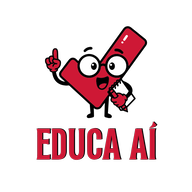
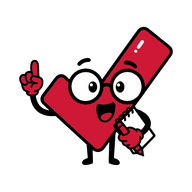
Atualiza ícones, sugere senha e revisa segurança

diff --git a/app.js b/app.js
@@ -17,12 +17,12 @@ function updateStorageStatus(){let message='';if(storageMode==='localStorage')me
 function mergeStates(indexed,fallback){const merge=(a,b)=>{const byId=new Map((Array.isArray(a)?a:[]).filter(x=>x&&x.id).map(x=>[x.id,x]));(Array.isArray(b)?b:[]).filter(x=>x&&x.id).forEach(x=>byId.set(x.id,x));return [...byId.values()]};const base=fallback||indexed||{};return {...emptyState(),disciplines:merge(indexed?.disciplines,fallback?.disciplines),classes:merge(indexed?.classes,fallback?.classes),students:merge(indexed?.students,fallback?.students),visits:merge(indexed?.visits,fallback?.visits),attendance:merge(indexed?.attendance,fallback?.attendance),exits:merge(indexed?.exits,fallback?.exits),occurrences:merge(indexed?.occurrences,fallback?.occurrences),activeDisciplineId:fallback?.activeDisciplineId||indexed?.activeDisciplineId||'',profileName:base.profileName||'',appMode:'individual',onboardingComplete:!!base.onboardingComplete,onboardingStep:base.onboardingStep||'',accessCount:Number(base.accessCount)||0,activeProduct:base.activeProduct||'vista'}}
 function showRecoveryKey(code,continuation){pendingRecoveryKey=code;pendingRecoveryContinuation=continuation;$('recoveryKeyText').textContent=code;$('recoverySavedCheck').checked=false;$('confirmRecoveryKey').disabled=true;$('recoveryError').textContent='';$('privacyGate').classList.add('hidden');$('onboardingGate').classList.add('hidden');$('productChooser').classList.add('hidden');$('supportReminder').classList.add('hidden');document.querySelector('main').inert=true;$('recoveryGate').classList.remove('hidden')}
 function updatePasskeyControls(){const enabled=!!vaultSession?.wraps?.passkey;if($('enablePasskey'))$('enablePasskey').classList.toggle('hidden',enabled);if($('removePasskey'))$('removePasskey').classList.toggle('hidden',!enabled);if($('passkeyStatus'))$('passkeyStatus').textContent=enabled?'Passkey ativa neste perfil. A senha e a chave de recuperação continuam disponíveis.':'Opcional; depende do suporte a passkeys e PRF neste navegador e aparelho.'}
-async function finishUnlockedSession(){await save();if(storageMode==='indexedDB'){try{localStorage.removeItem(LOCAL_STATE_KEY);localStorage.removeItem(RESET_MARKER_KEY)}catch{}}$('privacyGate').classList.add('hidden');$('recoveryGate').classList.add('hidden');$('privacyPassword').value='';$('privacyPasswordConfirm').value='';$('profileNameInput').value='';$('privacySubmit').disabled=false;render();updateStorageStatus();updatePasskeyControls();if('serviceWorker'in navigator)navigator.serviceWorker.register('./sw.js').catch(()=>{});await routeAfterUnlock()}
+async function finishUnlockedSession(){await save();if(storageMode==='indexedDB'){try{localStorage.removeItem(LOCAL_STATE_KEY);localStorage.removeItem(RESET_MARKER_KEY)}catch{}}$('privacyGate').classList.add('hidden');$('recoveryGate').classList.add('hidden');$('privacyPassword').value='';$('privacyPasswordConfirm').value='';$('profileNameInput').value='';window.EducaPasswordTools?.configure(false);$('privacySubmit').disabled=false;render();updateStorageStatus();updatePasskeyControls();if('serviceWorker'in navigator)navigator.serviceWorker.register('./sw.js').catch(()=>{});await routeAfterUnlock()}
 async function continueRecoverySetup(){if(!$('recoverySavedCheck').checked){$('recoveryError').textContent='Marque a confirmação depois de guardar a chave.';return}const continuation=pendingRecoveryContinuation;pendingRecoveryContinuation=null;pendingRecoveryKey='';$('recoveryGate').classList.add('hidden');if(continuation)await continuation()}
 async function unlockWithPasskey(){try{const stored=await inspectStoredData();if(stored.kind!=='encrypted')throw new Error('Não há perfil com passkey neste aparelho.');lastStoredEnvelope=stored.envelope;const opened=await EducaSecurity.openWithPasskey(stored.envelope);state=normalizeState(opened.data);vaultSession=opened.session;vaultKey=vaultSession.key;storageMode=storageMode==='localStorage'?'localStorage':'indexedDB';await finishUnlockedSession()}catch(err){$('privacyError').textContent=err.message||'Não foi possível desbloquear com a passkey. Use a senha ou a chave de recuperação.'}}
 async function enablePasskey(){try{if(!vaultSession)throw new Error('Desbloqueie o perfil primeiro.');await EducaSecurity.addPasskey(vaultSession,state.profileName);await save();updatePasskeyControls();toast('Passkey ativada neste aparelho.')}catch(err){toast(err.message||'Não foi possível ativar a passkey. Você pode continuar com a senha.')}}
 async function removePasskey(){if(!vaultSession?.wraps?.passkey)return;if(!confirm('Remover a passkey deste perfil? A senha e a chave de recuperação continuarão funcionando.'))return;delete vaultSession.wraps.passkey;await save();updatePasskeyControls();toast('Passkey removida.')}
-function configureGate(mode){gateMode=mode;document.body.dataset.setupFlow='true';document.querySelector('main').inert=true;const setup=mode==='setup',recovery=mode==='recovery',reset=mode==='reset-password',newPassword=setup||reset;$('privacyTitle').textContent=setup?'Crie seu perfil local':recovery?'Recupere o acesso ao seu perfil':reset?'Crie uma nova senha':'Desbloqueie o Educa Aí';$('privacyDescription').textContent=setup?'Crie uma senha para proteger os dados neste aparelho. Este perfil não é uma conta on-line.':recovery?'Digite a chave de recuperação que você guardou ao criar o perfil.':reset?'Defina uma senha nova para este aparelho.':'Digite sua senha para abrir os dados criptografados neste navegador.';$('profileNameWrap').classList.toggle('hidden',!setup);$('profileNameInput').required=setup;$('confirmPasswordWrap').classList.toggle('hidden',!newPassword);$('privacyPasswordLabel').textContent=recovery?'Chave de recuperação':'Senha';$('privacyPassword').autocomplete=recovery?'off':newPassword?'new-password':'current-password';$('privacyPassword').minLength=recovery?1:newPassword?MIN_PASSWORD_LENGTH:1;$('privacyPassword').placeholder=recovery?'Cole ou digite a chave de recuperação':newPassword?'Use pelo menos 14 caracteres':'Senha do perfil local';$('privacySubmit').textContent=setup?'Criar perfil e proteger':recovery?'Continuar com a chave':reset?'Salvar nova senha':'Desbloquear';$('recoveryLoginBtn').classList.toggle('hidden',mode!=='unlock'||!lastStoredEnvelope?.keyWraps?.recovery);$('passkeyLoginBtn').classList.toggle('hidden',mode!=='unlock'||!lastStoredEnvelope?.keyWraps?.passkey);$('privacyBackBtn').classList.toggle('hidden',!recovery&&!reset);$('privacyHint').textContent=setup?'O nome, a senha e os dados ficam neste aparelho. A chave de recuperação será mostrada antes de salvar o perfil.':recovery?'A chave não é enviada para a internet. Se você não a guardou, volte e tente a senha.':reset?'A chave de recuperação continua válida; guarde-a junto da senha nova.':'Os dados ficam neste aparelho. Se esquecer a senha, use a chave de recuperação para criar outra.';$('privacyError').textContent='';$('privacySubmit').disabled=setup&&storageMode==='unavailable';$('privacyGate').classList.remove('hidden');$('recoveryGate').classList.add('hidden');setTimeout(()=>(setup?$('profileNameInput'):$('privacyPassword')).focus(),100)}
+function configureGate(mode){gateMode=mode;document.body.dataset.setupFlow='true';document.querySelector('main').inert=true;const setup=mode==='setup',recovery=mode==='recovery',reset=mode==='reset-password',newPassword=setup||reset;$('privacyTitle').textContent=setup?'Crie seu perfil local':recovery?'Recupere o acesso ao seu perfil':reset?'Crie uma nova senha':'Desbloqueie o Educa Aí';$('privacyDescription').textContent=setup?'Crie uma senha para proteger os dados neste aparelho. Este perfil não é uma conta on-line.':recovery?'Digite a chave de recuperação que você guardou ao criar o perfil.':reset?'Defina uma senha nova para este aparelho.':'Digite sua senha para abrir os dados criptografados neste navegador.';$('profileNameWrap').classList.toggle('hidden',!setup);$('profileNameInput').required=setup;$('confirmPasswordWrap').classList.toggle('hidden',!newPassword);window.EducaPasswordTools?.configure(newPassword);$('privacyPasswordLabel').textContent=recovery?'Chave de recuperação':'Senha';$('privacyPassword').autocomplete=recovery?'off':newPassword?'new-password':'current-password';$('privacyPassword').minLength=recovery?1:newPassword?MIN_PASSWORD_LENGTH:1;$('privacyPassword').placeholder=recovery?'Cole ou digite a chave de recuperação':newPassword?'Use pelo menos 14 caracteres':'Senha do perfil local';$('privacySubmit').textContent=setup?'Criar perfil e proteger':recovery?'Continuar com a chave':reset?'Salvar nova senha':'Desbloquear';$('recoveryLoginBtn').classList.toggle('hidden',mode!=='unlock'||!lastStoredEnvelope?.keyWraps?.recovery);$('passkeyLoginBtn').classList.toggle('hidden',mode!=='unlock'||!lastStoredEnvelope?.keyWraps?.passkey);$('privacyBackBtn').classList.toggle('hidden',!recovery&&!reset);$('privacyHint').textContent=setup?'O nome, a senha e os dados ficam neste aparelho. A chave de recuperação será mostrada antes de salvar o perfil.':recovery?'A chave não é enviada para a internet. Se você não a guardou, volte e tente a senha.':reset?'A chave de recuperação continua válida; guarde-a junto da senha nova.':'Os dados ficam neste aparelho. Se esquecer a senha, use a chave de recuperação para criar outra.';$('privacyError').textContent='';$('privacySubmit').disabled=setup&&storageMode==='unavailable';$('privacyGate').classList.remove('hidden');$('recoveryGate').classList.add('hidden');setTimeout(()=>(setup?$('profileNameInput'):$('privacyPassword')).focus(),100)}
 async function inspectStoredData(){let fallback,indexed,resetPending=false;try{resetPending=localStorage.getItem(RESET_MARKER_KEY)==='1'}catch{}if(resetPending){try{await deleteIndexedDatabase();localStorage.removeItem(RESET_MARKER_KEY)}catch{try{fallback=readLocalRaw()}catch{}storageMode='localStorage';if(EducaSecurity.isEnvelope(fallback))return {kind:'encrypted',envelope:fallback};if(fallback){pendingLegacyState=normalizeState(fallback);return {kind:'legacy'}}pendingLegacyState=emptyState();return {kind:'new'}}}try{fallback=readLocalRaw()}catch{}try{indexed=await readIndexedRaw();storageMode='indexedDB'}catch{storageMode=fallback?'localStorage':'unavailable'}const encrypted=[indexed,fallback].find(x=>EducaSecurity.isEnvelope(x));if(encrypted){pendingLegacyState=null;return {kind:'encrypted',envelope:encrypted}}const legacyIndex=indexed&&!EducaSecurity.isEnvelope(indexed)?indexed:undefined,legacyFallback=fallback&&!EducaSecurity.isEnvelope(fallback)?fallback:undefined;if(legacyIndex!==undefined||legacyFallback!==undefined){pendingLegacyState=normalizeState(legacyIndex!==undefined&&legacyFallback!==undefined?mergeStates(legacyIndex,legacyFallback):(legacyIndex||legacyFallback));storageMode=legacyIndex!==undefined?'indexedDB':'localStorage';return {kind:'legacy'}}storageMode=storageMode==='unavailable'?'unavailable':'indexedDB';pendingLegacyState=emptyState();return {kind:'new'}}
 async function prepareApp(){if(!window.crypto?.subtle){storageMode='unavailable';configureGate('setup');$('privacyDescription').textContent='Este navegador não oferece a proteção criptográfica necessária. Atualize o navegador e abra o Educa Aí pelo endereço HTTPS.';$('privacySubmit').disabled=true;return}let stored;try{stored=await inspectStoredData()}catch(err){storageMode='unavailable';configureGate('setup');$('privacyDescription').textContent='Não foi possível acessar o armazenamento. Confira se o navegador permite dados do site e tente novamente.';$('privacySubmit').disabled=true;return}lastStoredEnvelope=stored.kind==='encrypted'?stored.envelope:null;if(stored.kind==='new'){if(storageMode==='unavailable'){configureGate('setup');$('privacyDescription').textContent='Este navegador bloqueou o armazenamento local. Abra o Educa Aí em um navegador atualizado, fora da navegação privada.';$('privacySubmit').disabled=true;return}$('privacyGate').classList.add('hidden');renderOnboarding('educa');return}configureGate(stored.kind==='legacy'?'setup':'unlock');if(storageMode==='unavailable'&&stored.kind==='legacy'){$('privacyDescription').textContent='O armazenamento deste navegador está indisponível. Os dados antigos não foram alterados; tente abrir em um navegador atualizado.';$('privacySubmit').disabled=true}}
 async function completeUnlock(credential){const stored=await inspectStoredData();if(gateMode==='setup'){if(credential.length<MIN_PASSWORD_LENGTH)throw new Error('Use uma senha com pelo menos 14 caracteres.');if(credential!==$('privacyPasswordConfirm').value)throw new Error('As senhas não coincidem.');const profileName=$('profileNameInput').value.trim();if(profileName.length<2)throw new Error('Digite o nome pelo qual quer ser chamada.');if(storageMode==='unavailable')throw new Error('O armazenamento deste navegador está indisponível.');const recoveryCode=EducaSecurity.createRecoveryCode();state=normalizeState(pendingLegacyState||emptyState());state.profileName=profileName;state.appMode='individual';vaultSession=await EducaSecurity.createSession(credential,recoveryCode);vaultKey=vaultSession.key;if(storageMode!=='localStorage')storageMode='indexedDB';showRecoveryKey(recoveryCode,finishUnlockedSession);return}if(stored.kind!=='encrypted')throw new Error('Não foi encontrado um cofre criptografado para abrir.');lastStoredEnvelope=stored.envelope;if(gateMode==='recovery'){const opened=await decryptEnvelope(stored.envelope,credential,'recovery');if(opened.legacy)throw new Error('Esta cópia antiga ainda não tem chave de recuperação. Abra-a com sua senha para atualizar a proteção.');state=normalizeState(opened.data);vaultSession=opened.session;vaultKey=vaultSession.key;storageMode=storageMode==='localStorage'?'localStorage':'indexedDB';configureGate('reset-password');$('privacyPassword').value='';$('privacyPasswordConfirm').value='';return}if(gateMode==='reset-password'){if(credential.length<MIN_PASSWORD_LENGTH)throw new Error('Use uma senha com pelo menos 14 caracteres.');if(credential!==$('privacyPasswordConfirm').value)throw new Error('As senhas não coincidem.');await EducaSecurity.changePassword(vaultSession,credential);await finishUnlockedSession();return}const opened=await decryptEnvelope(stored.envelope,credential,'password');state=normalizeState(opened.data);storageMode=storageMode==='localStorage'?'localStorage':'indexedDB';if(opened.legacy){const recoveryCode=EducaSecurity.createRecoveryCode();vaultSession=await EducaSecurity.createSession(credential,recoveryCode);vaultKey=vaultSession.key;showRecoveryKey(recoveryCode,finishUnlockedSession);return}vaultSession=opened.session;vaultKey=vaultSession.key;if(!vaultSession.wraps.recovery){const recoveryCode=EducaSecurity.createRecoveryCode();await EducaSecurity.addRecoveryWrap(vaultSession,recoveryCode);showRecoveryKey(recoveryCode,finishUnlockedSession);return}await finishUnlockedSession()}

diff --git a/index.html b/index.html
@@ -24,6 +24,8 @@
     <p id="privacyDescription">Crie uma senha para criptografar os dados neste aparelho e os arquivos de backup.</p>
     <div id="profileNameWrap"><label for="profileNameInput">Usuário (nome pelo qual quer ser chamada)</label><input id="profileNameInput" type="text" autocomplete="nickname" maxlength="60" required placeholder="Ex.: Professora Ana"></div>
     <label id="privacyPasswordLabel" for="privacyPassword">Senha</label><input id="privacyPassword" type="password" autocomplete="current-password" required minlength="14" placeholder="Use pelo menos 14 caracteres">
+    <div id="passwordActions" class="password-actions hidden"><button id="suggestPasswordBtn" class="tab" type="button">Sugerir senha forte</button><button id="togglePasswordVisibility" class="tab" type="button" aria-pressed="false">Mostrar senhas</button></div>
+    <p id="passwordSuggestionHint" class="hint hidden" role="status" aria-live="polite"></p>
     <div id="confirmPasswordWrap"><label for="privacyPasswordConfirm">Confirme a senha</label><input id="privacyPasswordConfirm" type="password" autocomplete="new-password" minlength="14" placeholder="Digite a mesma senha novamente"></div>
     <p id="privacyError" class="error" role="alert"></p>
     <button id="privacySubmit" class="primary" type="submit">Criar perfil e proteger</button>
@@ -44,7 +46,7 @@
     <p id="secretError" class="error" role="alert"></p><div class="row"><button class="primary" type="submit">Abrir arquivo</button><button id="secretCancel" class="tab" type="button">Cancelar</button></div>
   </form>
 </section>
-<header><div class="brand-row"><button class="brand-link brand-educai" type="button" data-open-chooser="true" aria-label="Voltar à escolha das ferramentas Educa Aí"><img class="brand-logo" src="assets/logo-educai.webp" alt="Educa Aí"></button><button class="brand-link" type="button" data-product="vista" aria-label="Abrir Vista Aí"><img class="brand-logo" src="assets/logo-vistaai.webp" alt="Vista Aí"></button><button class="brand-link" type="button" data-product="anota" aria-label="Abrir Anota Aí"><img class="brand-logo" src="assets/logo-anotaai.webp" alt="Anota Aí"></button></div><p>Educa Aí • ferramentas para a rotina de professores</p></header>
+<header><div class="brand-row"><button class="brand-link" type="button" data-product="vista" aria-label="Abrir Vista Aí"><img class="brand-logo" src="assets/logo-vistaai.webp" alt="Vista Aí"></button><button class="brand-link" type="button" data-product="anota" aria-label="Abrir Anota Aí"><img class="brand-logo" src="assets/logo-anotaai.webp" alt="Anota Aí"></button></div><p>Educa Aí • ferramentas para a rotina de professores</p></header>
 <main class="wrap" inert>
   <div class="card no-print"><label for="activeDiscipline">Disciplina selecionada</label><div class="row"><select id="activeDiscipline" class="grow"><option value="">Nenhuma disciplina cadastrada</option></select><span class="hint">Turmas, alunos, vistos e QR Codes são separados por disciplina.</span></div></div>
   <div id="storageWarning" class="notice hidden no-print" role="status"></div>
@@ -127,5 +129,6 @@
 <script src="./vendor/qrcodejs-1.0.0.min.js" defer></script>
 <script src="./vendor/xlsx-0.20.3.full.min.js" defer></script>
 <script src="./security.js" defer></script>
+<script src="./password-tools.js" defer></script>
 <script src="./app.js" defer></script>
 </body></html>

diff --git a/password-tools.js b/password-tools.js
@@ -1,0 +1,82 @@
+(() => {
+  'use strict';
+
+  const passwordInput = document.getElementById('privacyPassword');
+  const confirmInput = document.getElementById('privacyPasswordConfirm');
+  const actions = document.getElementById('passwordActions');
+  const suggestButton = document.getElementById('suggestPasswordBtn');
+  const visibilityButton = document.getElementById('togglePasswordVisibility');
+  const hint = document.getElementById('passwordSuggestionHint');
+
+  function randomIndex(max) {
+    const range = 0x100000000;
+    const limit = range - (range % max);
+    const value = new Uint32Array(1);
+    do {
+      crypto.getRandomValues(value);
+    } while (value[0] >= limit);
+    return value[0] % max;
+  }
+
+  function createStrongPassword() {
+    if (!globalThis.crypto?.getRandomValues) {
+      throw new Error('Este navegador não oferece um gerador criptográfico seguro.');
+    }
+
+    const groups = [
+      'ABCDEFGHJKLMNPQRSTUVWXYZ',
+      'abcdefghijkmnopqrstuvwxyz',
+      '23456789',
+      '!@#$%*+-_?'
+    ];
+    const alphabet = groups.join('');
+    const characters = groups.map(group => group[randomIndex(group.length)]);
+
+    while (characters.length < 24) {
+      characters.push(alphabet[randomIndex(alphabet.length)]);
+    }
+
+    for (let index = characters.length - 1; index > 0; index -= 1) {
+      const other = randomIndex(index + 1);
+      [characters[index], characters[other]] = [characters[other], characters[index]];
+    }
+
+    return characters.join('');
+  }
+
+  function configure(enabled) {
+    actions.classList.toggle('hidden', !enabled);
+    passwordInput.value = '';
+    confirmInput.value = '';
+    passwordInput.type = 'password';
+    confirmInput.type = 'password';
+    visibilityButton.textContent = 'Mostrar senhas';
+    visibilityButton.setAttribute('aria-pressed', 'false');
+    hint.textContent = '';
+    hint.classList.add('hidden');
+  }
+
+  suggestButton.addEventListener('click', () => {
+    try {
+      const password = createStrongPassword();
+      passwordInput.value = password;
+      confirmInput.value = password;
+      hint.textContent = 'Senha aleatória de 24 caracteres preenchida nos dois campos. Use “Mostrar senhas” para conferir e salve-a em um gerenciador antes de continuar.';
+      hint.classList.remove('hidden');
+      visibilityButton.focus();
+    } catch (error) {
+      hint.textContent = error.message || 'Não foi possível sugerir uma senha segura neste navegador.';
+      hint.classList.remove('hidden');
+    }
+  });
+
+  visibilityButton.addEventListener('click', () => {
+    const show = passwordInput.type === 'password';
+    passwordInput.type = show ? 'text' : 'password';
+    confirmInput.type = show ? 'text' : 'password';
+    visibilityButton.textContent = show ? 'Ocultar senhas' : 'Mostrar senhas';
+    visibilityButton.setAttribute('aria-pressed', String(show));
+  });
+
+  window.EducaPasswordTools = { configure };
+})();

diff --git a/sw.js b/sw.js
@@ -1,5 +1,5 @@
-const CACHE='educai-shell-v17-2';
-const SHELL=['./','./index.html','./app.css','./security.js','./app.js','./manifest.webmanifest','./assets/logo-educai.webp','./assets/logo-uso-individual.webp','./assets/logo-uso-escolar.webp','./assets/logo-vistaai.webp','./assets/logo-anotaai.webp','./assets/icon-192.png','./assets/icon-512.png','./assets/apple-touch-icon.png','./assets/favicon-32.png','./assets/pix-vistaai.jpeg','./vendor/html5-qrcode-2.3.8.min.js','./vendor/qrcodejs-1.0.0.min.js','./vendor/xlsx-0.20.3.full.min.js'];
+const CACHE='educai-shell-v17-3';
+const SHELL=['./','./index.html','./app.css','./security.js','./password-tools.js','./app.js','./manifest.webmanifest','./assets/logo-educai.webp','./assets/logo-uso-individual.webp','./assets/logo-uso-escolar.webp','./assets/logo-vistaai.webp','./assets/logo-anotaai.webp','./assets/icon-192.png','./assets/icon-512.png','./assets/apple-touch-icon.png','./assets/favicon-32.png','./assets/pix-vistaai.jpeg','./vendor/html5-qrcode-2.3.8.min.js','./vendor/qrcodejs-1.0.0.min.js','./vendor/xlsx-0.20.3.full.min.js'];
 self.addEventListener('install',event=>event.waitUntil((async()=>{const cache=await caches.open(CACHE);await cache.addAll(SHELL);await self.skipWaiting()})()));
 self.addEventListener('activate',event=>event.waitUntil((async()=>{for(const key of await caches.keys())if((key.startsWith('educai-shell-')||key.startsWith('vistai-shell-')||key.startsWith('vistos-historia-'))&&key!==CACHE)await caches.delete(key);await self.clients.claim()})()));
 self.addEventListener('fetch',event=>{const request=event.request,url=new URL(request.url);if(request.method!=='GET'||url.origin!==self.location.origin)return;event.respondWith((async()=>{const hit=await caches.match(request);if(hit)return hit;try{return await fetch(request)}catch(error){if(request.mode==='navigate')return caches.match('./index.html');return Response.error()}})())});

diff --git a/app.css b/app.css
@@ -22,7 +22,7 @@ body[data-setup-flow="true"]{--green:#a90f2a;--mint:#ffe4e8;--line:#ecd0d5;--mut
 body[data-setup-flow="true"] .flow-gate{background:#fff8f8}
 body[data-setup-flow="true"] .flow-card h1,.privacy-card h1{color:#a90f2a}
 .brand-row{gap:10px}
-.brand-educai .brand-logo{width:142px;height:142px}
+
 .brand-link[data-product] .brand-logo{width:104px;height:104px}
 .educai-flow-logo,.educai-intro-logo{display:block;width:min(32vw,150px);height:min(32vw,150px);object-fit:contain;margin:0 auto 12px}
 .educai-intro-logo{width:min(42vw,190px);height:min(42vw,190px);margin-bottom:10px}
@@ -41,4 +41,6 @@ body[data-setup-flow="true"] .flow-card h1,.privacy-card h1{color:#a90f2a}
 .recovery-card #confirmRecoveryKey{width:100%}
 #passkeyStatus{flex:1 1 220px}
 .educai-flow-logo{margin:0 auto 12px}
-@media(max-width:650px){.brand-row{gap:2px}.brand-educai .brand-logo{width:30vw;height:30vw;max-width:112px;max-height:112px}.brand-link[data-product] .brand-logo{width:26vw;height:26vw;max-width:96px;max-height:96px}.mode-grid{grid-template-columns:1fr}.mode-card img{height:130px}.educai-intro-logo{width:150px;height:150px}}
+@media(max-width:650px){.brand-row{gap:2px}.brand-link[data-product] .brand-logo{width:26vw;height:26vw;max-width:96px;max-height:96px}.mode-grid{grid-template-columns:1fr}.mode-card img{height:130px}.educai-intro-logo{width:150px;height:150px}}
+
+.password-actions{display:flex;gap:8px;flex-wrap:wrap;margin-top:8px}.password-actions button{flex:1 1 170px}

diff --git a/AUDITORIA-DE-SEGURANCA.md b/AUDITORIA-DE-SEGURANCA.md
@@ -33,6 +33,19 @@ O navegador e o sistema operacional podem solicitar Face ID, digital, PIN ou có
 
 O perfil individual é local e não tem autenticação de dois fatores nem redefinição remota de senha. A recuperação depende da chave que o usuário guardou. A conta que hospeda o site não consegue recuperar o conteúdo criptografado.
 
+## Revisão adicional após ajustes de interface e favicon — 28 de novembro de 2026
+
+Foi feita uma nova leitura estática de `index.html`, `app.js`, `security.js`, `password-tools.js`, `sw.js`, `manifest.webmanifest` e do inventário de dependências.
+
+- A sugestão de senha usa `crypto.getRandomValues`, gera 24 caracteres e garante caracteres de diferentes grupos. Não usa serviço externo, não grava a sugestão em armazenamento, permite mostrar/ocultar os campos e limpa os campos quando a tela de acesso muda. A senha só entra no fluxo normal de criação/alteração da senha do cofre.
+- O novo `password-tools.js` é servido do próprio repositório e foi incluído no cache offline. A chave do cache do service worker foi alterada para que o navegador não continue usando a versão antiga dos arquivos.
+- O cabeçalho agora mostra apenas os mascotes Vista Aí e Anota Aí. O favicon, o ícone da tela inicial e os ícones PWA foram derivados do arquivo de mascote fornecido pelo idealizador, sem o texto do logotipo e com canal transparente.
+- Na revisão do código próprio, não foram encontrados usos de `innerHTML`, `outerHTML`, `insertAdjacentHTML`, `document.write`, `eval` ou `new Function`. Os links externos do aplicativo são as opções do Mercado Pago, abertas por escolha da pessoa e com `noopener noreferrer`.
+- O aplicativo não integra DNS de terceiros, telemetria ou API remota. O service worker atende somente requisições GET da própria origem; a resolução DNS do domínio continua sendo responsabilidade da configuração do domínio e da rede do visitante.
+- As dependências incluídas e suas licenças/origens estão listadas em `vendor/DEPENDENCIES.md`. A licença das artes do projeto não foi presumida; o inventário registra que os arquivos foram fornecidos pelo idealizador e que não há licença de terceiros identificada.
+
+Não foram executados testes de navegador, testes automatizados nem análise CodeQL nesta revisão. A alteração foi revisada estaticamente; a aparência e o funcionamento em desktop, iPad, iPhone e instalação PWA ainda precisam de confirmação manual após a publicação.
+
 ## O que esta revisão não confirma
 
 Este pacote ainda não foi exercitado em navegadores e aparelhos físicos depois das mudanças do Educa Aí. Não houve teste de invasão independente, revisão jurídica, certificação ou validação institucional. O suporte da passkey deve ser confirmado no aparelho e navegador que a pessoa usará. Portanto, não se afirma que o site seja completamente seguro ou validado para uso em larga escala.

diff --git a/README.md b/README.md
@@ -30,7 +30,7 @@ O **Educa Aí** reúne atualmente duas ferramentas de navegador:
 
 ## Primeiro acesso e proteção
 
-Na primeira abertura, o Educa Aí apresenta o projeto e os modos de uso. Escolha **Uso individual**, crie um perfil local, informe uma senha de pelo menos 14 caracteres e guarde a chave de recuperação apresentada antes de concluir a criação do cofre. Depois, cadastre uma disciplina, conheça as ferramentas e escolha Vista Aí ou Anota Aí.
+Na primeira abertura, o Educa Aí apresenta o projeto e os modos de uso. Escolha **Uso individual**, crie um perfil local, informe uma senha de pelo menos 14 caracteres e guarde a chave de recuperação apresentada antes de concluir a criação do cofre. No cadastro ou na redefinição da senha, o botão **Sugerir senha forte** pode gerar uma senha aleatória de 24 caracteres no próprio navegador; confira-a e guarde-a em um gerenciador de senhas. Depois, cadastre uma disciplina, conheça as ferramentas e escolha Vista Aí ou Anota Aí.
 
 O perfil não é uma conta on-line; o nome informado é apenas um nome de exibição local. No Uso individual, os nomes, turmas e registros ficam no armazenamento deste navegador; não há sincronização com servidor. A senha protege o cofre. A chave de recuperação permite abrir o cofre e definir outra senha. Se baixar essa chave em arquivo, o arquivo fica sem criptografia e deve ser guardado com cuidado. Se perder a senha e a chave, os dados criptografados não poderão ser recuperados.
 
@@ -56,7 +56,7 @@ O leitor de QR, o gerador de QR e a biblioteca de planilhas são incluídos loca
 
 O aplicativo não usa um serviço de DNS de terceiros integrado ao código. Como qualquer site, o domínio ainda precisa de DNS para ser encontrado: essa resolução depende dos servidores DNS configurados para o domínio e da rede/aparelho de quem acessa. Os links para o Mercado Pago só são abertos quando a pessoa escolhe uma opção de apoio.
 
-O projeto aplica uma política de segurança de conteúdo no HTML. Isso não protege um aparelho comprometido, uma senha fraca ou uma cópia do site adulterada, nem substitui auditoria independente. Veja [SECURITY.md](SECURITY.md) e [SEGURANCA-E-PRIVACIDADE.md](SEGURANCA-E-PRIVACIDADE.md).
+O projeto aplica uma política de segurança de conteúdo no HTML. Isso não protege um aparelho comprometido, uma senha fraca ou uma cópia do site adulterada, nem substitui auditoria independente. Veja [AUDITORIA-DE-SEGURANCA.md](AUDITORIA-DE-SEGURANCA.md), [SECURITY.md](SECURITY.md) e [SEGURANCA-E-PRIVACIDADE.md](SEGURANCA-E-PRIVACIDADE.md).
 
 ## Contribuições
 

diff --git a/CHANGELOG.md b/CHANGELOG.md
@@ -7,7 +7,9 @@
 - Cria um cofre local criptografado com senha e chave aleatória de recuperação. A chave permite abrir o cofre e definir outra senha.
 - Mantém compatibilidade de leitura com cofres locais da versão anterior e os atualiza para o novo formato depois do desbloqueio.
 - Adiciona passkey opcional para desbloqueio rápido quando navegador, aparelho e gerenciador de credenciais oferecem WebAuthn com a extensão PRF. A senha e a chave de recuperação continuam como alternativas.
-- Atualiza as marcas, cores, ícones do navegador e ícones de instalação do Educa Aí.
+- Adiciona o botão “Sugerir senha forte” no cadastro e na redefinição de senha. A senha aleatória é criada localmente com o gerador criptográfico do navegador.
+- Simplifica o cabeçalho para mostrar apenas os mascotes do Vista Aí e do Anota Aí.
+- Atualiza favicon e ícones de instalação com o mascote do Educa Aí, sem o texto do logotipo.
 - Mantém o uso gratuito e a contribuição voluntária opcional.
 
 ### Base técnica incorporada à versão 1.7

diff --git a/vendor/DEPENDENCIES.md b/vendor/DEPENDENCIES.md
@@ -22,3 +22,7 @@ O DNS continua sendo necessário para qualquer navegador encontrar o domínio do
 As bibliotecas locais não se atualizam sozinhas. Antes de atualizar uma dependência, confira a versão e os avisos de segurança no projeto original, obtenha a distribuição de uma fonte oficial, atualize o aviso de licença e o hash, avalie o funcionamento e observe os resultados das análises do GitHub. Não troque o arquivo local por uma referência remota de CDN.
 
 As licenças deste inventário se aplicam às bibliotecas de terceiros identificadas, não à licença do restante do Educa Aí. O código próprio do aplicativo é distribuído sob a licença MIT indicada na raiz do repositório.
+
+## Logos e imagens do projeto
+
+Os arquivos de logo e o mascote usado nos ícones foram fornecidos pelo idealizador do Educa Aí. Não foi identificada uma licença de terceiros para essas imagens; a licença do código não deve ser interpretada como licença separada para reutilizar a arte ou a marca.
